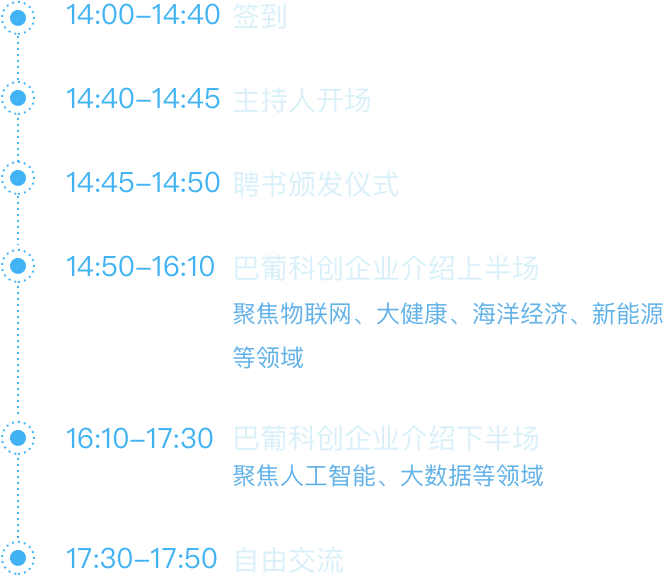
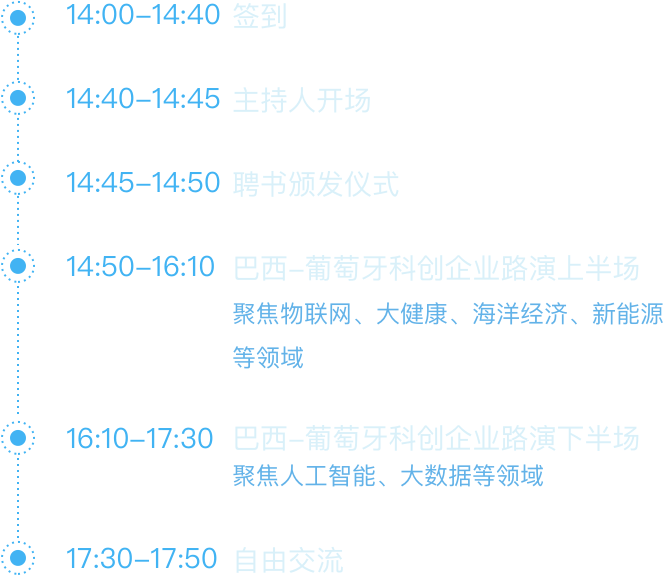
update

Changed region(s): [[0.3916, 0.4375, 0.9639, 0.5], [0.3916, 0.7188, 0.9639, 0.7812]]

diff --git a/src/components/homePage.vue b/src/components/homePage.vue
@@ -21,9 +21,9 @@
 			<div class="activityBg" style="margin-bottom:50px;">
 				粤港澳大湾区建设是习近平总书记亲自谋划、亲自部署、亲自推动的国家战略，是新时代推动形成全面开放新格局的新尝试，是推动“一国两制”事业发展的新实践，也是前海新时期开发开放重大战略机遇。前海立足国家战略优势，汇聚全球创新能量，建设“一带一路”国际路演中心，为全球科技创新企业提供资本及产业资源支持，搭建路演展示舞台，推动粤港澳大湾区建设。
 			</div>
-			<div class="headlineright" style="width:89.3%;">· 巴葡科创企业交流会 ·</div>
+			<div class="headlineright" style="width:89.3%;">· 巴西-葡萄牙科创企业专场路演 ·</div>
 			<div class="activityBg" style="margin-bottom:50px;clear:both;margin-bottom:55px;">
-				澳门特区政府经济局产业发展厅厅长邱润华亲自带队16个涵盖人工智能、大数据、物联网、大健康、海洋经济、新能源等领域巴葡龙头科创团队来深，了解湾区经济发展、营商环境及创业发展空间以寻求更多的市场开拓、业务合作机会。
+				本次活动由“一带一路”前海国际路演中心携手澳门经济局产业发展厅，共同邀请巴西及葡萄牙孵化中心及在孵的科创企业来深，包括大数据、云计算、人工智能、物联网、海洋经济、大健康等领域16个深具发展潜力的创新科技项目进行路演，本次路演特邀产业专家、资深投资人组成的评委嘉宾团与路演企业深入沟通，以及众多粤港澳及海外投资机构与会深度点评互动。
 			</div>
 			<div class="headlineleft" style="width:73.6%;">
 				· 活动流程 ·
@@ -258,7 +258,7 @@ export default {
 			tableList:[], // 报名列表数据
 			domain:'https://app.dyly.com',
 			joinFlag:false, // 参会报名显示和隐藏
-			title:'【邀请函】“一带一路” 前海国际路演中心-巴葡科创企业交流会',
+			title:'【邀请函】“一带一路” 前海国际路演中心·巴西-葡萄牙科创企业专场路演',
 			decs:'路演时间：9月11日14:00 路演地点：前海深港青年梦工场 智汇全球·追梦前海>>',
 			imgUrl:'https://m.dyly.com/register/app_h5/img/qh.jpg',
 			sharehref:'https://m.dyly.com/register/app_h5/qh/index.html'

diff --git a/src/components/active.js b/src/components/active.js
@@ -1,10 +1,10 @@
 var active = [
     {
-        name:'“一带一路”国际路演中心启动仪式暨新一代信息技术路演专场',
+        name:'“一带一路”国际路演中心启动仪式暨新一代信息技术专场路演',
         time:'2019年8月20日\n已结束'
     },
     {
-        name:'“一带一路”国际路演中心系列路演活动· 巴葡科创企业交流会',
+        name:'“一带一路”国际路演中心系列路演活动· 巴西-葡萄牙科创企业专场路演',
         time:'2019年9月11日'
     },
     {

diff --git a/index.html b/index.html
@@ -22,7 +22,7 @@ html,body{
 </style>
 <body>
 	<div style="display:none">
-		<span class="shareTitle">【邀请函】“一带一路” 前海国际路演中心-巴葡科创企业交流会</span>
+		<span class="shareTitle">【邀请函】“一带一路” 前海国际路演中心·巴西-葡萄牙科创企业专场路演</span>
 		<div class="shareDesc">路演时间：9月11日14:00 路演地点：前海深港青年梦工场 智汇全球·追梦前海>></div>
 		<div class="shareImgUrl">https://m.dyly.com/register/app_h5/img/qh.jpg</div>
 	</div>
